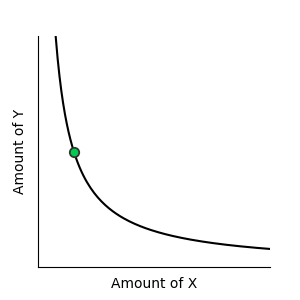
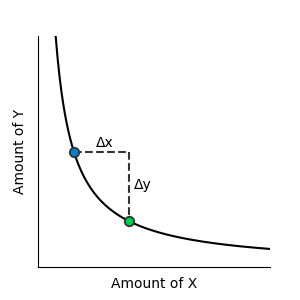
Add first spiderwebs

Changed region(s): [[0.39, 0.51, 0.51, 0.78], [0.24, 0.45, 0.42, 0.54]]

diff --git a/posts/uniswap_v3_conceptually/_fig00.py b/posts/uniswap_v3_conceptually/_fig00.py
@@ -1,6 +1,10 @@
 import matplotlib.pyplot as plt
 import numpy as np
 
+def plot_dot(ax, x, y, color=(1, 1, 1)):
+    ax.scatter([x], [y], color=(.2, .2, .2), s=50, zorder=1)
+    ax.scatter([x], [y], color=color, s=20, zorder=2)
+
 fig, ax = plt.subplots(figsize=(3, 3))
 ax.set_xticks([])
 ax.set_yticks([])
@@ -14,11 +18,16 @@ ax.spines.top.set_visible(False)
 k = 10
 x = np.linspace(0, 1, 128)
 y = k / x
-idx = 20
-x_dot = x[idx:idx+1]
-y_dot = y[idx:idx+1]
+idxi = 20
+idxf = 50
+xi, yi = x[idxi], y[idxi]
+xf, yf = x[idxf], y[idxf]
 
 ax.plot(x, y, c="k", zorder=0)
-ax.scatter(x_dot, y_dot, color=(.2, .2, .2), s=50, zorder=1)
-ax.scatter(x_dot, y_dot, color=(0, .8, .3), s=20, zorder=2)
+plot_dot(ax, xi, yi, (0, .5, .8))
+plot_dot(ax, xf, yf, (0, .8, .3))
+ax.plot([xi, xf], [yi, yi], c=(.2, .2, .2), ls='--', zorder=-1)
+ax.text(.35 * xi + .5 * xf, yi * 1.05, "Δx")
+ax.plot([xf, xf], [yi, yf], c=(.2, .2, .2), ls='--', zorder=-1)
+ax.text(xf * 1.05, .48 * yi + .5 * yf, "Δy")
 fig.savefig("fig00.png")

diff --git a/posts/uniswap_v3_conceptually/_fig01.py b/posts/uniswap_v3_conceptually/_fig01.py
@@ -1,0 +1,30 @@
+import matplotlib.pyplot as plt
+import numpy as np
+
+def plot_dot(ax, x, y, color=(1, 1, 1)):
+    ax.scatter([x], [y], color=(.2, .2, .2), s=50, zorder=1)
+    ax.scatter([x], [y], color=color, s=20, zorder=2)
+
+fig, ax = plt.subplots(figsize=(3, 3))
+ax.set_xticks([])
+ax.set_yticks([])
+ax.set_xlim(0, 1)
+ax.set_ylim(0, 1)
+ax.set_xlabel("Amount of X")
+ax.set_ylabel("Amount of Y")
+ax.spines.right.set_visible(False)
+ax.spines.top.set_visible(False)
+
+ls = np.linspace(0, 1, 5)[1:]
+for l in ls:
+    x = np.linspace(0, 1, 128)
+    y = l ** 2 / x
+    ax.plot(x, y, color=(.2, .2, .2), ls='-')
+
+ps = 2 ** np.linspace(-3, 3, 5)
+for p in ps:
+    x = np.linspace(0, 1, 128)
+    y = p * x
+    ax.plot(x, y, color=(.2, .2, .2), ls='--')
+
+fig.savefig("fig01.png")

diff --git a/posts/uniswap_v3_conceptually.md b/posts/uniswap_v3_conceptually.md
@@ -16,6 +16,11 @@ approach to UniV3.
 
 - [From traditional exchanges to blockchain][trad-to-block]
 - [Uniswap's constant product formula][ucpf]
+  - [The formula][#the-formula]
+  - [Price][#price]
+  - [Liquidity][#liquidity]
+  - [Price and liquidity visually][#plv]
+- [The *actual* uniswap formula][tauf]
 - Novel concepts of Uniswap V3
 
 ## From traditional exchanges to blockchain
@@ -75,6 +80,8 @@ about making a decentralized exchange over it?
 
 ## Uniswap's constant product formula
 
+### The formula
+
 An AMM's value to an outsider is evident. Anything that takes some token and is
 proven to return a specific amount of another token may serve to exchange
 tokens. There's also the posibility of arbitraging: if the algorithm provides
@@ -120,11 +127,123 @@ price.
 I'll find it easier to explain this with some plots! If you're unfamiliar with
 what's coming, bear with it for a second. It may be hard to understand at
 first, but it's a great explanatory tool.
-
 ![Alt text][fig00]
+
+In the graph, the horizontal displacement represents amount of `X` in the pool,
+whereas the vertical one represents amount of `Y` in the pool. We can identify
+any state our pool can be in through an `(x, y)` pair, which would be a point
+in the graph. The bold line a set where all points `(x, y)` satisfy
+`x . y = k`, with `k` a constant. In our example with numbers above, `k` would
+be `10`, but whatever the value of `k`, the graph looks overall like that.
+
+The dots represent posible states of the pool. Imagine I find the pool in the
+state represented by the blue dot. I'm free to move the dot around, as long as
+I keep it over the curve. The green dot then represents a posible final state,
+after I perform a change in the state of the pool. `Δx` and `Δy` represent the
+changes in `x` and `y`, the reserves of each token. In this transaction, we can
+see I increased the amount of `X` and reduced the amount of `Y` in the pool,
+meaning I bought `Y` in exchange for `X`.
+
+One of the very important notions that this kind of pool satisfy, is that of
+path independence. The pool has no proprietary (we'll talk about how it gets
+its reserves shortly). It's just an entity of the aether, and people are free
+to alter its state to their convenience, as long as one simple rule is
+followed, and reap the benefits of “conservation of tokens”.
+
+### Price
+
+Now, there are two important notions that we'll need to define here. Namely,
+“current price” and “liquidity”. But we've just seen that the exchange's price
+depends on the size of the operation! Perhaps I exchange an euro and the price
+is `1`, but if the amount of euros I want to exchange is close to the amount of
+euros in the pool, the price may jump to infinity!
+
+Yep. The price depends on the size of the transaction. But, as the name “pool”
+implies, the pool is supposed to be a gigantic reserve of tokens. So, clients
+that want modest exchanges shouldn't really reach a situation where the prices
+go upwards to infinity. How is price computed exactly then? why, with
+infinitesimals.
+
+Suppose I find a pool with constant `x . y = k`, and want to buy `X`. Lets call
+the amount of `x` we want `dx`, and the amount of `y` we'll have to incorporate
+`dy`. Our operation will take the pool from a state `(x, y)` to a state
+`(x - dx, y + dy)`.
+
+But from the constant product constraint, `dx` and `dy` aren't arbitrary. We
+must chose them so that `(x - dx)(y + dy) = k`. A simple application of the
+distributive property, and the magic fact that `dx . dy` pales in comparison to
+`dx` and to `dy` if they're both very very small, leads us to our result.
+
+The price, for small changes `dx` and `dy`, of `X`, is `dy / dx = y / x`. What
+a wonderful result! It's simply the ratio of suply between `Y` and `X`.
+
+As a quick detour in our discussions, it's worth mentioning that price changes
+lead to impermanent loss. It can be proven that if a pool is initalized at a
+price in agreement with the market, and the market price changes, then the
+worth of the pool (calculated as the sum of its assets in units of any of the
+tokens) strictly diminishes. We'll talk more about that later.
+
+Now, what constitutes a small exchange depends on how much of both `x` and `y`
+there is, really. This leads us to the concept of “liquidity”. This quantity is
+most precisely defined in Uniswap V3, where things get *reeeal*.
+
+### Liquidity
+
+To get an idea why liquidity will be defined as it will, let us notice that
+supplying liquidity requires increasing `k`. Why? because the *rate* of change
+of the price `p` with respect to changes `dx` is proportional to `1 / sqrt(k)`,
+where `sqrt` stands for “square root of”. This means the higher `k` is, the
+smaller the change in price will be.
+
+We could thus simply define liquidity as `k`. Or, as already suggested by the
+rate of change of price, as its square root. But any monotonously increasing
+function of `k` suffices really. So, how do we pick one among the infinite
+posibilities?
+
+Well, there's a second nice property that `sqrt(k)` satisfies that is crucial.
+Namely, it is *linear* on the amount of token that gets incorporated.
+
+To see this, let us consider a pool that's initialized at a certain value of
+`k0 = x . y` and at a certain price `p = y / x`. When providing liquidity at
+the current price, with a proper increase `Δx` and `Δy`, it can be shown that
+`k` changes from `k0` to `k1 = (sqrt(k0) + sqrt(Δx . Δy)) ^ 2`. But! if instead
+of speaking about `k0` and `k1` we spoke about `L0 = sqrt(k0)` and
+`L1 = sqrt(k1)`, we would say that liquidity `L` goes from `L0` to
+`L1 = L0 + ΔL`, where `L0 = sqrt(x . y)` and `ΔL = sqrt(Δx . Δy)`.
+
+By this definition of liquidity, two equal provisions of tokens represent the
+same liquidity increase each, independent of their order. Any other definition
+of liquidity, such as `L = k`, would lead to odd state-dependent changes in
+liquidity for the very same operation!
+
+Furthermore, the linearity property guarantees that if someone provides a given
+amount of `X` and `Y`, and I provide a fraction of it, the differences in
+liquidity will be related by this very same relationship.
+
+## Price and liquidity visually
+
+Uniswap V2 is moved by two kind of actors. I'll call them “swappers” and
+“liquidity providers”. Liquidity providers increase liquidity at constant
+price, and swappers “swap” between tokens at constant liquidity, moving the
+price at its wake.
+
+You've already seen what constant liquidity surfaces look like. It's the
+painted curve in the first figure we've seen. But what do constant price
+surfaces look like? Well, those surfaces are described by `p = y / x`, or to
+put it another way, `y = p . x`. They're straight lines through the origin!
+
+This graph shows both constant liquidity curves (solid lines) and constant
+price curves (dashed lines).
+
+![Alt text][fig01]
+
+## The *actual* Uniswap formula
 
 [v3swp]: https://uniswap.org/whitepaper-v3.pdf
 [trad-to-block]: #from-traditional-exchanges-to-blockchain
 [erc20]: https://ethereum.org/en/developers/docs/standards/tokens/erc-20/
 [ucpf]: #uniswaps-constant-product-formula
 [fig00]: https://notbru.github.io/posts/uniswap_v3_conceptually/fig00.png
+[fig00]: https://notbru.github.io/posts/uniswap_v3_conceptually/fig01.png
+[plv]: #price-and-liquidity-visually
+[tauf]: #the-actual-uniswap-formula
